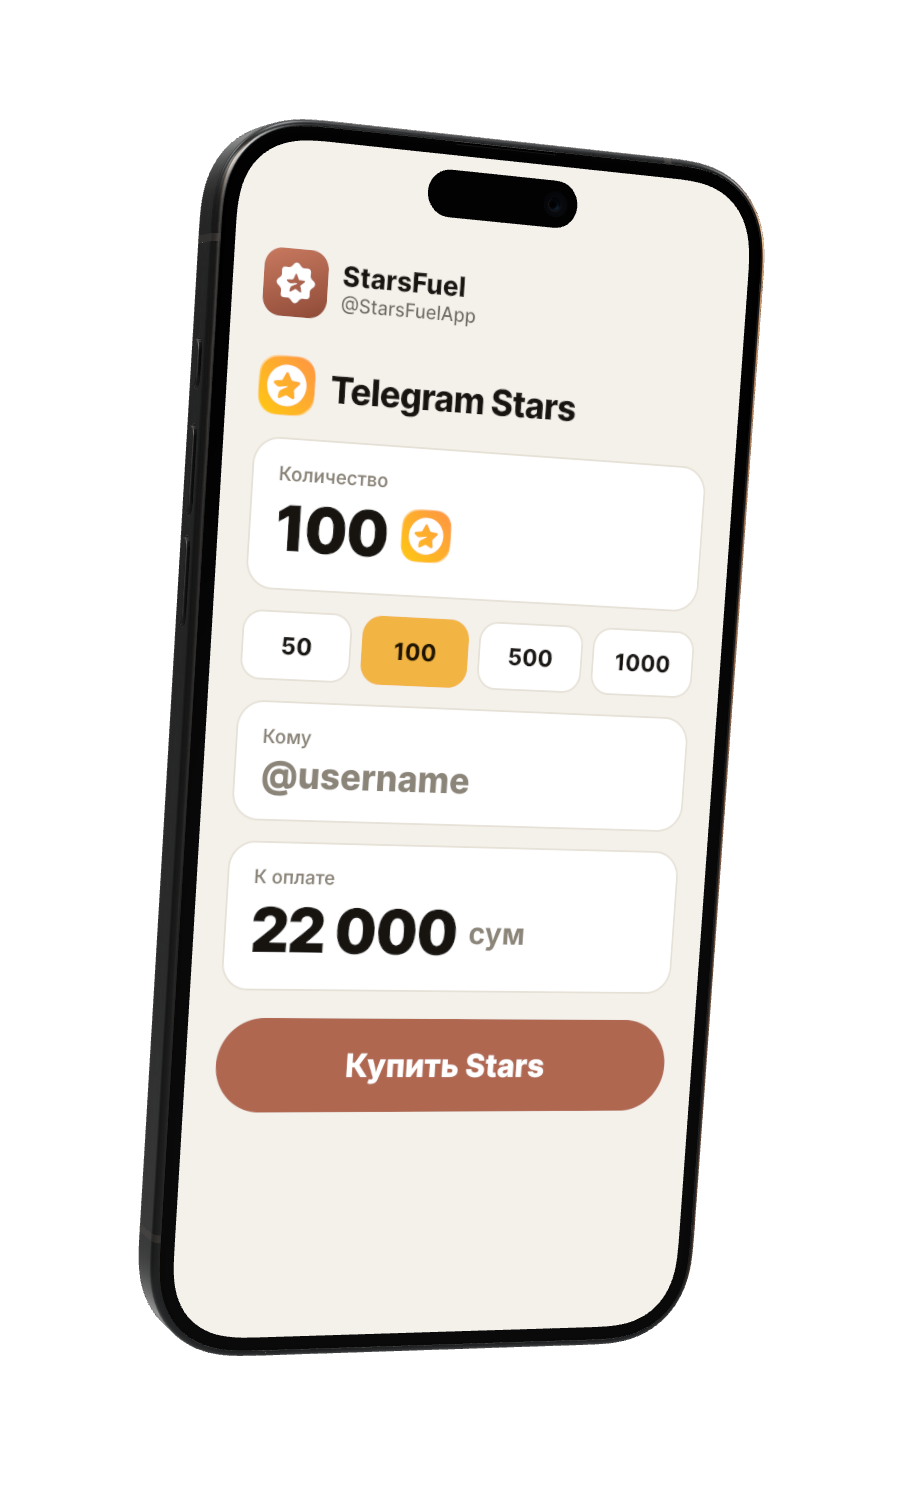
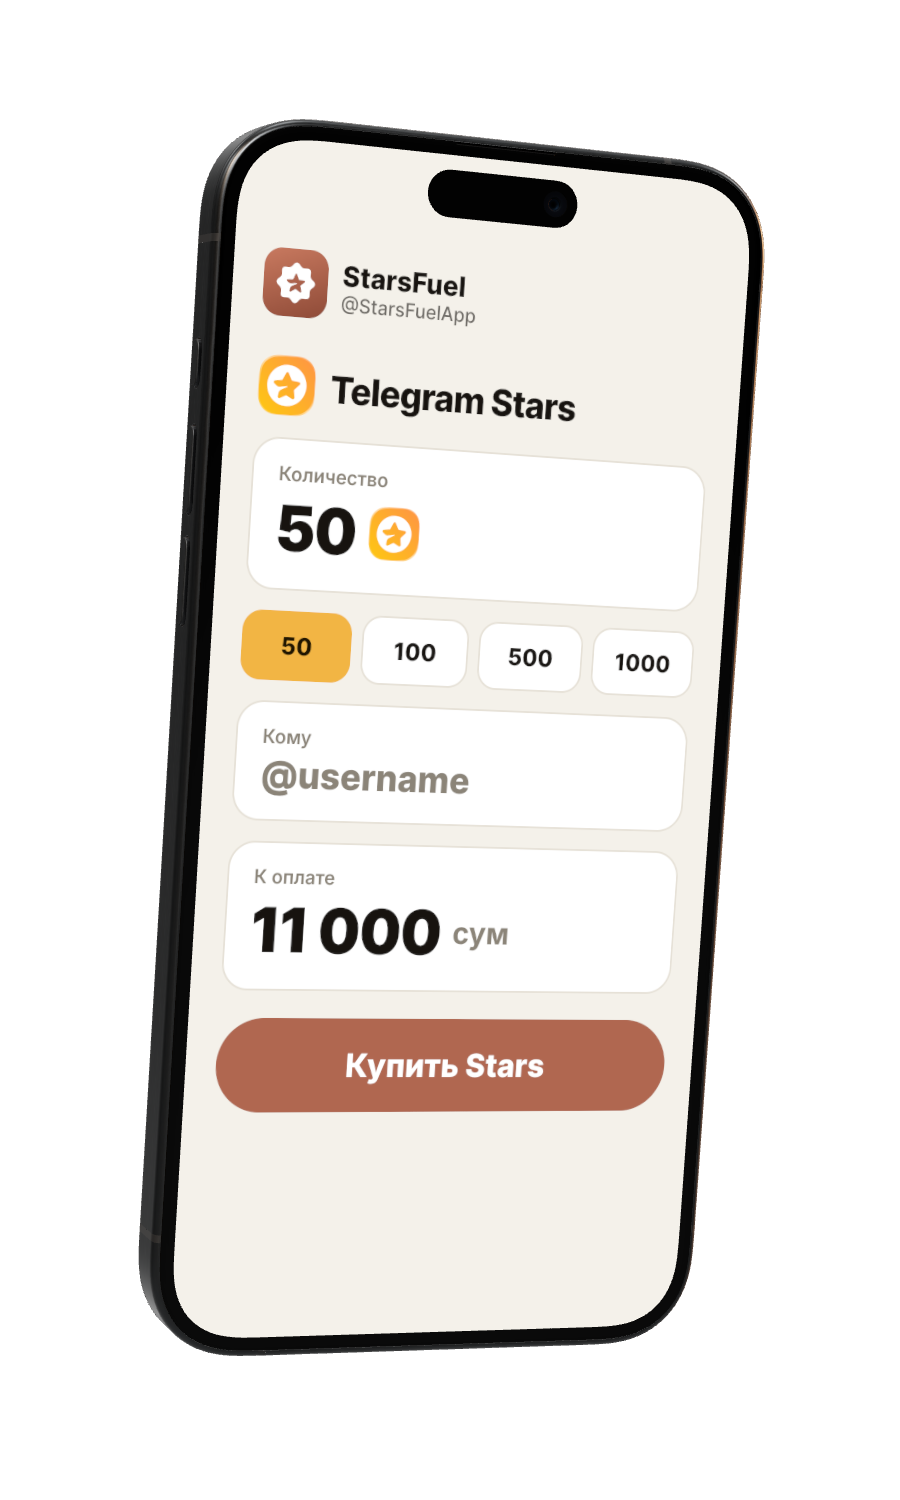
banner9: new copy (Stars kerakmi?), 50 Stars 11 000
Claude-Session: https://claude.ai/code/session_015jmeQLTmXWnLNKzjH9hZsN

Changed region(s): [[0.2489, 0.3373, 0.5289, 0.46], [0.28, 0.5827, 0.5911, 0.644]]

diff --git a/studio/slides/banner9.html b/studio/slides/banner9.html
@@ -7,11 +7,11 @@ html,body{margin:0}*{box-sizing:border-box}
 .g{position:absolute;border-radius:50%;filter:blur(110px)}
 .a{position:absolute}
 .brand{left:72px;top:104px;display:flex;align-items:center;gap:12px;font:800 23px I;letter-spacing:2.5px}
-.h{left:72px;top:158px;font:900 68px I;letter-spacing:-3px;line-height:1.02;white-space:nowrap}
+.h{left:72px;top:158px;font:900 66px I;letter-spacing:-3px;line-height:1.02;white-space:nowrap}
 .h em{font-style:normal;color:#F2B544}
-.p{left:72px;top:380px;width:500px;font:500 20.5px I;line-height:1.45;color:rgba(255,255,255,.62)}.p b{color:#fff;font-weight:700}
+  .p{left:72px;top:378px;width:520px;font:600 36px I;letter-spacing:-1px;line-height:1.45;color:rgba(255,255,255,.62)}.p b{color:#fff;font-weight:900}
 .chips{left:72px;top:480px;display:flex;gap:8px}
-.chip{display:flex;align-items:center;gap:8px;height:44px;padding:0 15px 0 8px;border-radius:22px;border:1px solid rgba(255,255,255,.14);background:rgba(255,255,255,.04);font:700 15.5px I;white-space:nowrap}
+.chip{display:flex;align-items:center;gap:9px;height:48px;padding:0 18px 0 9px;border-radius:24px;border:1px solid rgba(255,255,255,.14);background:rgba(255,255,255,.04);font:800 18px I;white-space:nowrap}
 .chip img{width:25px}
 .cta{left:72px;top:552px;display:flex;align-items:center;gap:16px}
 .cta b{display:inline-flex;align-items:center;height:42px;padding:0 20px;border-radius:12px;background:#F2B544;color:#1d1300;font:800 17px I}
@@ -48,10 +48,10 @@ html,body{margin:0}*{box-sizing:border-box}
 <script>
 const W=[500,600,700,800,900];document.getElementById('ff').textContent=W.map(w=>`@font-face{font-family:I;font-weight:${w};src:url(inter-latin-${w}-normal.woff2)}@font-face{font-family:I;font-weight:${w};src:url(inter-cyrillic-${w}-normal.woff2);unicode-range:U+0400-04FF,U+2116}`).join('');
 const IC='../rhythm_reel/icons/',lang=new URLSearchParams(location.search).get('lang')||'uz';
-const T={uz:{h:"Stars tugadimi?<br><em>Karta bilan</em><br>to'ldiring",p:"Sovg'a yuboring, reaksiya bosing, botlarda to'lang. <b>100 Stars — 22 000 so'm.</b>",
-  chips:[['ios_070',"Sovg'alar"],['ios_005','Reaksiyalar'],['ios_086','Botlar'],['ios_003',"Do'stga"]],cb:"Stars olish: @StarsFuelApp",cs:"karta orqali to'lov",n1:"+100 Stars",n2:"@username",n3:"buyurtma qabul qilindi"},
- ru:{h:"Stars на нуле?<br><em>Пополните</em><br>картой",p:"Дарите подарки, ставьте реакции, платите в ботах. <b>100 Stars — 22 000 сум.</b>",
-  chips:[['ios_070','Подарки'],['ios_005','Реакции'],['ios_086','Боты'],['ios_003','Другу']],cb:"Купить Stars: @StarsFuelApp",cs:"оплата картой",n1:"+100 Stars",n2:"@username",n3:"заказ принят"}}[lang];
+const T={uz:{h:"Stars kerakmi?<br><em>@StarsFuelApp</em><br>dan oling",p:"<b>50 Stars</b> — <b>11 ming so'm</b>",
+  chips:[['ios_042','Qulay'],['ios_079','Tez'],['ios_006','Ishonchli']],cb:"Stars olish: @StarsFuelApp",cs:"karta orqali to'lov",n1:"+50 Stars",n2:"@username",n3:"buyurtma qabul qilindi"},
+ ru:{h:"Нужны Stars?<br>Берите в<br><em>@StarsFuelApp</em>",p:"<b>50 Stars</b> — <b>11 тысяч сум</b>",
+  chips:[['ios_042','Удобно'],['ios_079','Быстро'],['ios_006','Надёжно']],cb:"Купить Stars: @StarsFuelApp",cs:"оплата картой",n1:"+50 Stars",n2:"@username",n3:"заказ принят"}}[lang];
 const $=i=>document.getElementById(i);
 ['h','p','cb','cs','n1','n2','n3'].forEach(k=>$(k).innerHTML=T[k]);
 $('chips').innerHTML=T.chips.map(([i,n])=>`<div class="chip"><img src="${IC}${i}.png">${n}</div>`).join('');

diff --git a/studio/phone3d/screen.html b/studio/phone3d/screen.html
@@ -20,12 +20,12 @@ const Q=new URLSearchParams(location.search),k=Q.get('kind'),ru=Q.get('lang')=='
 const app=`<div class="app"><i><img src="${L}" style="width:46px"></i><div><b>StarsFuel</b><small>@StarsFuelApp</small></div></div>`;
 const s=document.getElementById('s');
 if(k=='buy'){s.className='s lt';s.innerHTML=app+`<div class="h"><img src="${IC}ios_093.png">Telegram Stars</div>
- <div class="bx"><small>${ru?'Количество':'Miqdor'}</small><b>100 <img src="${IC}ios_093.png" style="width:60px"></b></div>
- <div class="ch"><span>50</span><span class="on">100</span><span>500</span><span>1000</span></div>
+ <div class="bx"><small>${ru?'Количество':'Miqdor'}</small><b>50 <img src="${IC}ios_093.png" style="width:60px"></b></div>
+ <div class="ch"><span class="on">50</span><span>100</span><span>500</span><span>1000</span></div>
  <div class="bx"><small>${ru?'Кому':'Kimga'}</small><b style="font:800 40px I;letter-spacing:0;color:#8b8478">@username</b></div>
- <div class="bx"><small>${ru?'К оплате':"To'lov"}</small><b>22 000 <span style="font:700 34px I;letter-spacing:0;color:#8b8478">${ru?'сум':"so'm"}</span></b></div>
+ <div class="bx"><small>${ru?'К оплате':"To'lov"}</small><b>11 000 <span style="font:700 34px I;letter-spacing:0;color:#8b8478">${ru?'сум':"so'm"}</span></b></div>
  <div class="btn">${ru?'Купить Stars':'Stars sotib olish'}</div>`}
-else{s.className='s dk';s.innerHTML=app+`<div class="ok"><img src="${IC}ios_093.png"><b>+100</b><em>Telegram Stars</em><small>${ru?'Заказ принят':'Buyurtma qabul qilindi'}</small></div>
- <div class="dt"><div>${ru?'Кому':'Kimga'}<b>@username</b></div><div>${ru?'Оплачено':"To'landi"}<b>22 000 ${ru?'сум':"so'm"}</b></div><div>${ru?'Оплата':"To'lov"}<b>${ru?'картой':'karta orqali'}</b></div></div>`}
+else{s.className='s dk';s.innerHTML=app+`<div class="ok"><img src="${IC}ios_093.png"><b>+50</b><em>Telegram Stars</em><small>${ru?'Заказ принят':'Buyurtma qabul qilindi'}</small></div>
+ <div class="dt"><div>${ru?'Кому':'Kimga'}<b>@username</b></div><div>${ru?'Оплачено':"To'landi"}<b>11 000 ${ru?'сум':"so'm"}</b></div><div>${ru?'Оплата':"To'lov"}<b>${ru?'картой':'karta orqali'}</b></div></div>`}
 Promise.all([document.fonts.ready,...W.map(w=>document.fonts.load(`${w} 20px I`,'aЯ')),...[...document.images].map(im=>im.complete?1:new Promise(r=>{im.onload=im.onerror=r}))]).then(()=>window.ready=true);
 </script></body></html>
